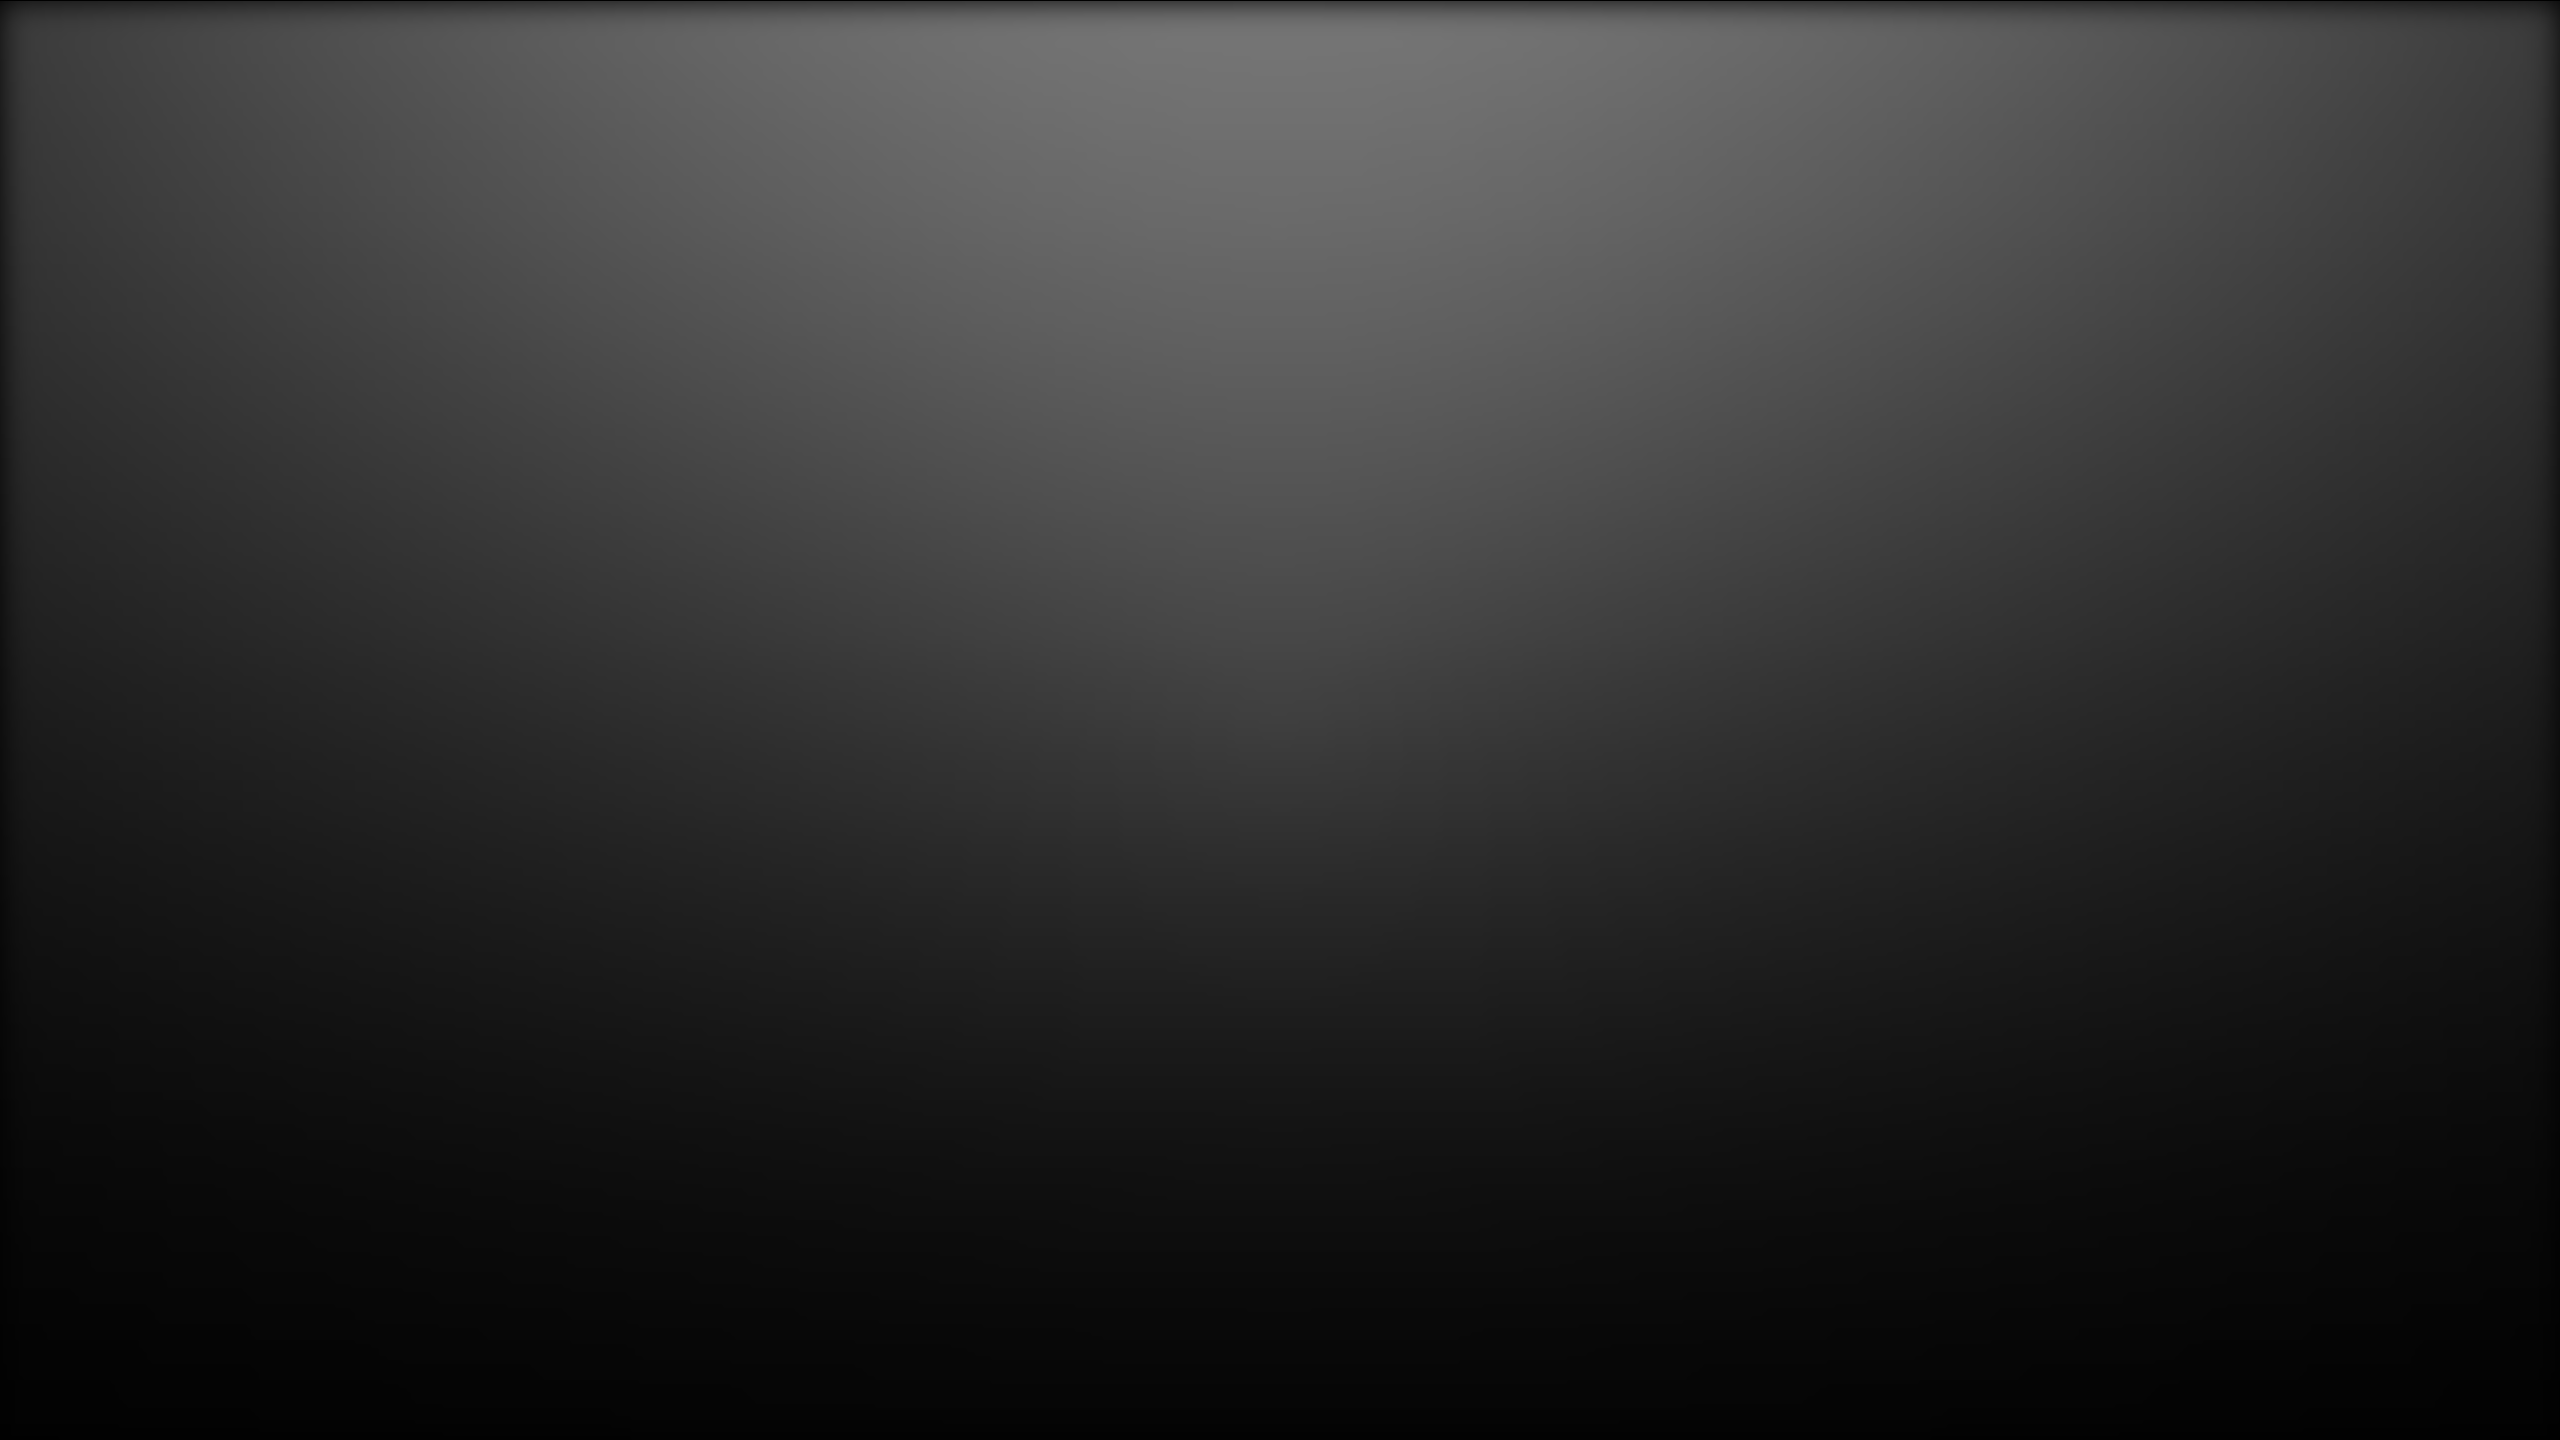
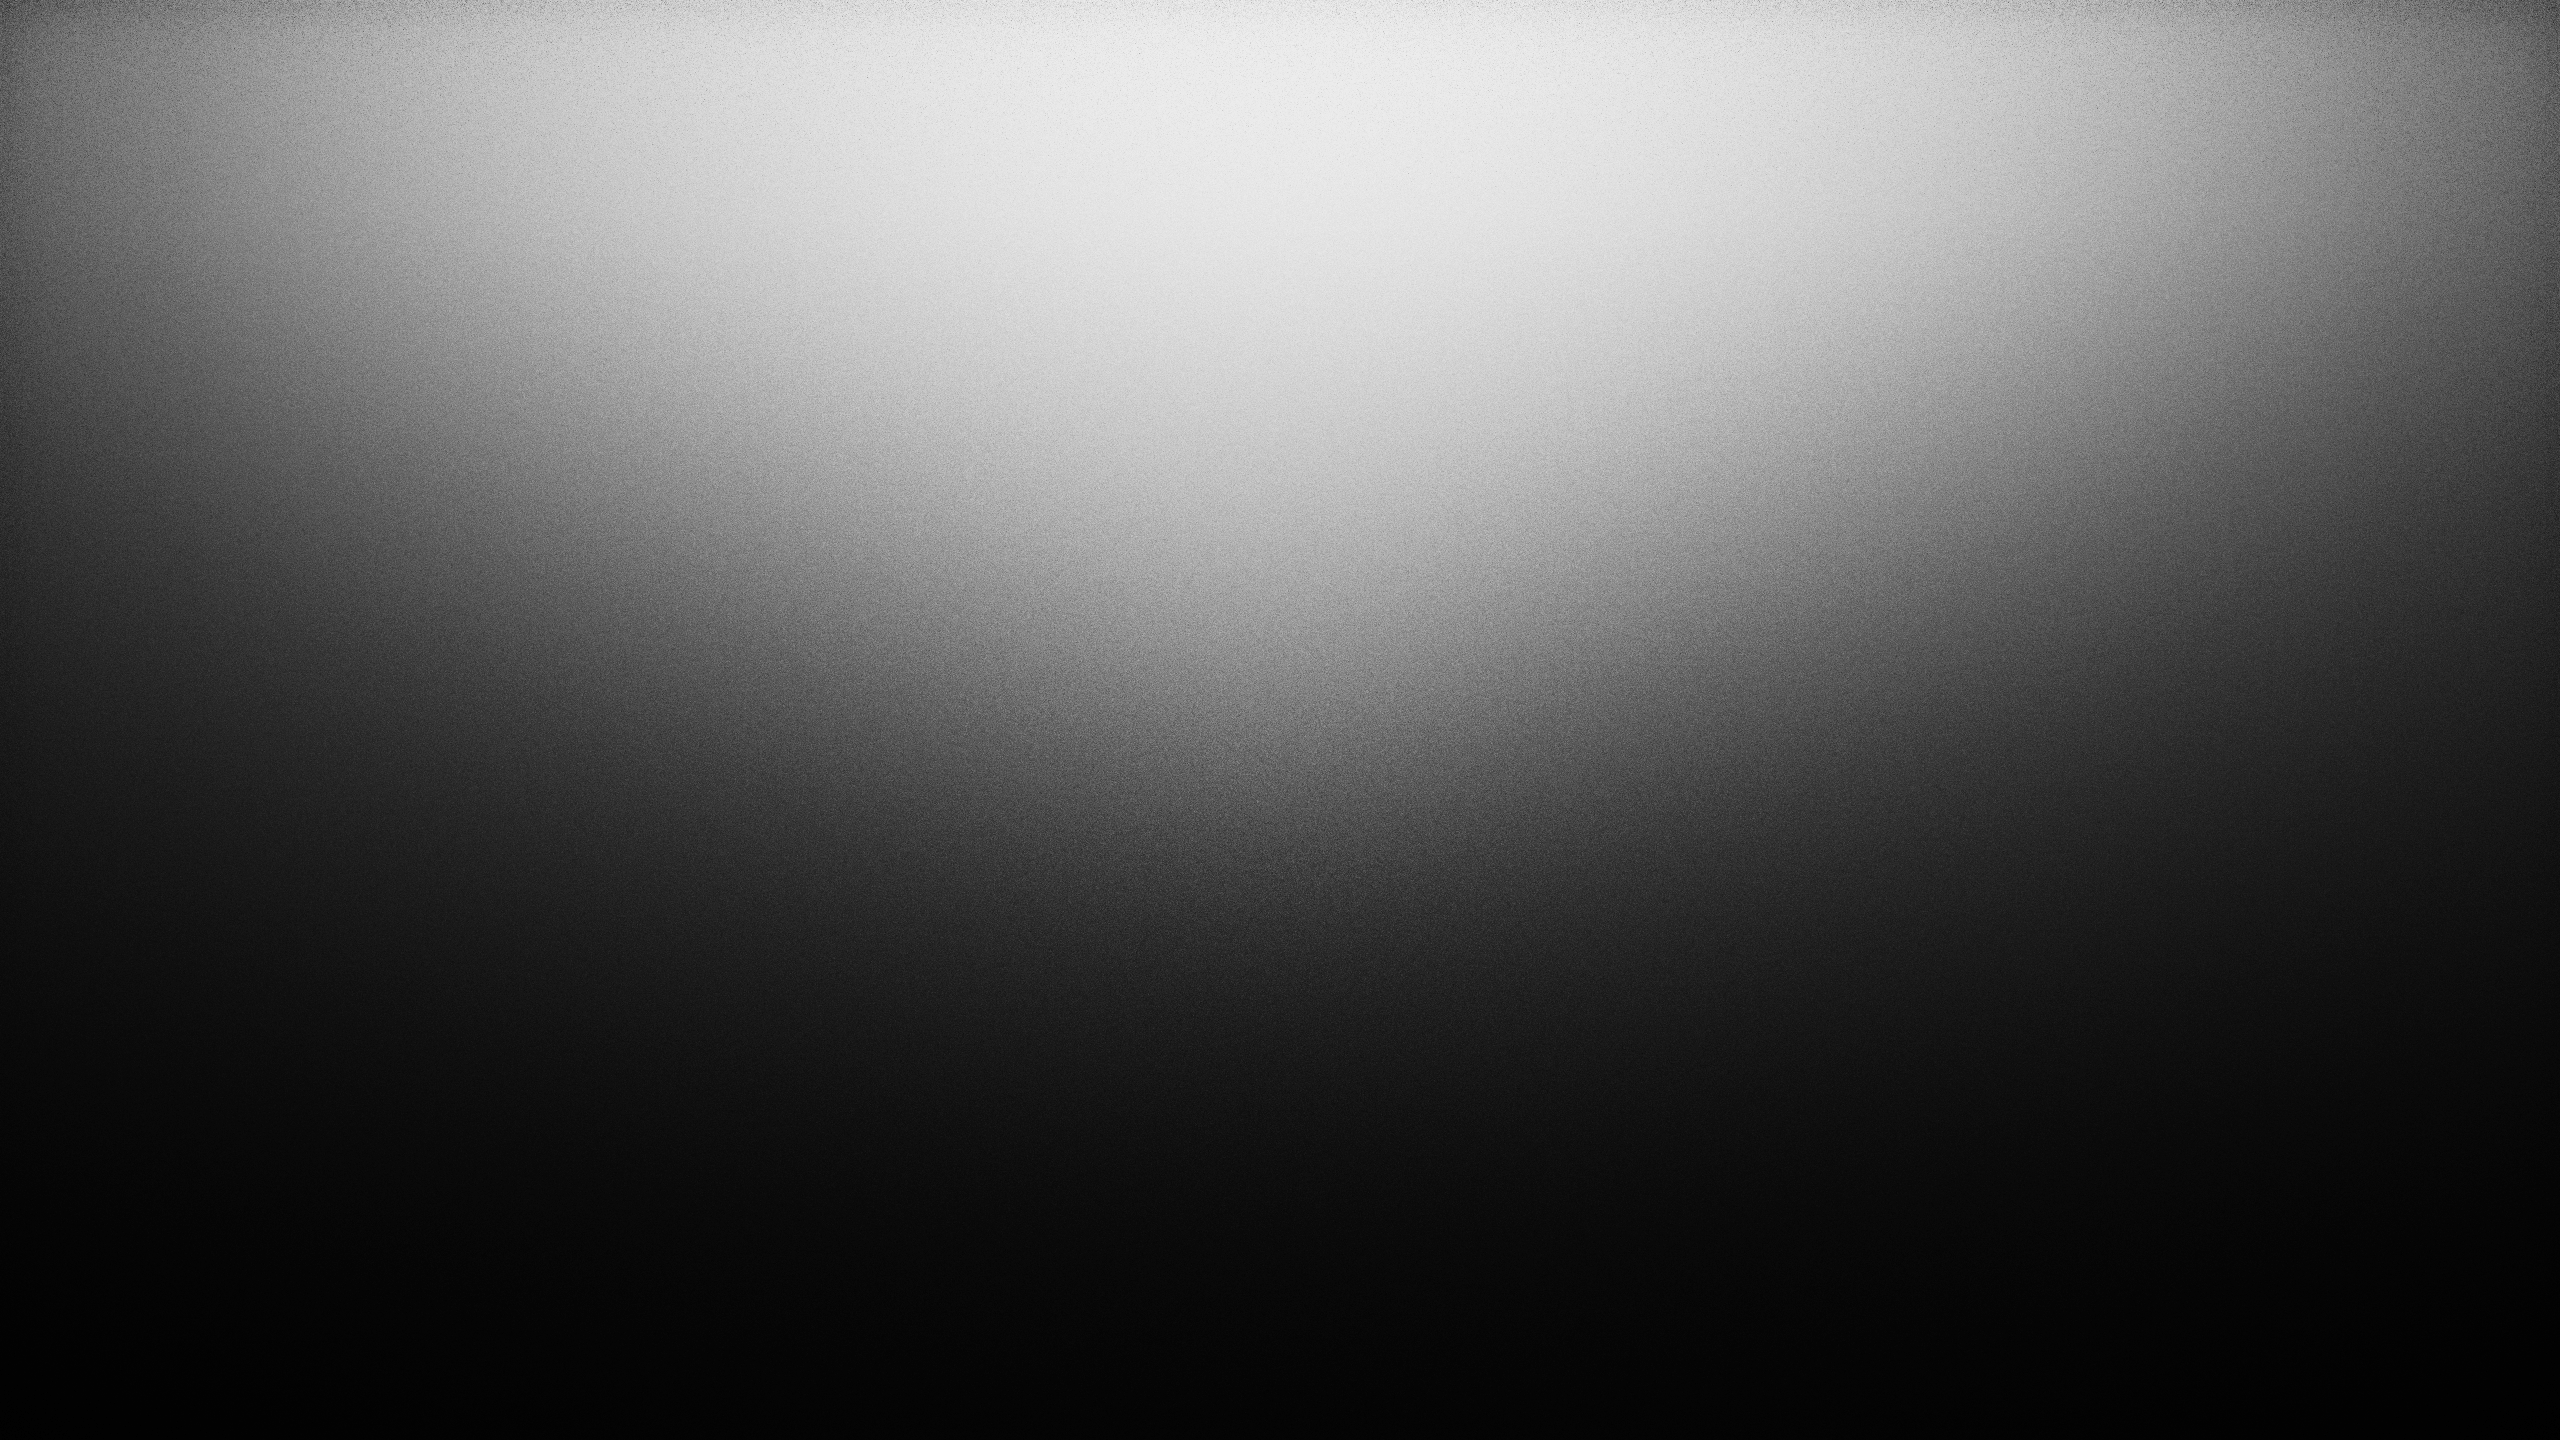
Support for different contexts and heartbeat

diff --git a/src/main/resources/static/playback_flux.js b/src/main/resources/static/playback_flux.js
@@ -3,7 +3,7 @@ var firstRequestDone = false;
 var currentData;
 
 const DEFAULT_IMAGE = 'img/idle.png';
-const DEFAULT_BACKGROUND = 'url(img/gradient_transparent.png)';
+const DEFAULT_BACKGROUND = 'url(img/gradient.png)';
 const PROGRESS_BAR_UPDATE_MS = 250;
 
 window.addEventListener('load', entryPoint);
@@ -26,24 +26,39 @@ function singleRequest() {
       .catch(ex => console.debug(ex));
 }
 
+var flux;
 function startFlux() {
-	const flux = new EventSource("/playbackinfoflux");
-	flux.onmessage = function(event) {
-		let data = event.data;
-		let json = JSON.parse(data);
-		if (this.currentData == null && json.partial) {
+	try {
+		flux = new EventSource("/playbackinfoflux");
+		flux.onopen = () => {
 			singleRequest();
-			return;
-		} else {
-			setDisplayData(json);
-		}
-	};
-	flux.onerror = function(e) {
-    	flux.close();
-    	singleRequest();
-    	startFlux();
-    };
+		};
+		flux.onmessage = (event) => {
+			let data = event.data;
+			try {
+				let json = JSON.parse(data);
+				if (this.currentData == null && json.partial) {
+					singleRequest();
+				} else {
+					setDisplayData(json);
+				}	
+			} catch (ex) {
+				console.debug(ex);
+				console.debug(data);
+			}
+			
+		};
+		flux.onerror = (e) => handleFluxError(e, flux);
+	} catch (e) {
+		handleFluxError(e, flux);
+	}
 }
+
+function handleFluxError(e, flux) {
+	flux.close();
+	singleRequest();
+	startFlux();
+};
 
 var autoTimeEnabled = false;
 
@@ -58,11 +73,14 @@ function startAutoTimer() {
 		}, PROGRESS_BAR_UPDATE_MS);	
 	}
 }
+
 var preloadImg;
 var preloadImgDisplayTimeout;
 function setDisplayData(data) {
-	// console.debug(data);
-    if (data != null) {
+	console.debug(data);
+    if (data == null) {
+    	setIdle();
+    } else {
     	if (data.timeCurrent >= 0) {
     		this.idle = false;
     		if (this.currentData == null || !data.partial) {
@@ -105,10 +123,8 @@ function setDisplayData(data) {
 	            document.getElementById("device").innerHTML = data.device;
 	        }
 	  		updateProgress(data);
-	        return;
         }
     }
-    setIdle();
 }
 
 function updateProgress(data) {

diff --git a/src/main/java/spotify/playback/PlaybackInfoComponent.java b/src/main/java/spotify/playback/PlaybackInfoComponent.java
@@ -5,8 +5,12 @@ import javax.annotation.PostConstruct;
 import org.springframework.beans.factory.annotation.Autowired;
 import org.springframework.stereotype.Component;
 
+import com.wrapper.spotify.enums.CurrentlyPlayingType;
 import com.wrapper.spotify.enums.ModelObjectType;
 import com.wrapper.spotify.model_objects.miscellaneous.CurrentlyPlayingContext;
+import com.wrapper.spotify.model_objects.specification.Album;
+import com.wrapper.spotify.model_objects.specification.Artist;
+import com.wrapper.spotify.model_objects.specification.Context;
 import com.wrapper.spotify.model_objects.specification.Image;
 import com.wrapper.spotify.model_objects.specification.Playlist;
 import com.wrapper.spotify.model_objects.specification.Track;
@@ -24,6 +28,8 @@ import spotify.sketchpads.util.SketchCommons;
 public class PlaybackInfoComponent {
 
 	private final static String PLAYLIST_PREFIX = "https://api.spotify.com/v1/playlists/";
+	private final static String ALBUM_PREFIX = "https://api.spotify.com/v1/albums/";
+	private final static String ARTIST_PREFIX = "https://api.spotify.com/v1/artists/";
 
 	@Autowired
 	private SketchCommons utils;
@@ -88,12 +94,35 @@ public class PlaybackInfoComponent {
 	 */
 
 	private String getPlaylistName(CurrentlyPlayingContext info) {
-		if (info.getContext() != null && ModelObjectType.PLAYLIST.equals(info.getContext().getType()) && !info.getContext().toString().equals(contextString)) {
-			this.contextString = info.getContext().toString();
-			String uri = info.getContext().getHref().replace(PLAYLIST_PREFIX, "");
-			Playlist contextPlaylist = SpotifyCall.execute(utils.getSpotifyApi().getPlaylist(uri));
-			if (contextPlaylist != null) {
-				return contextPlaylist.getName();
+		Context context = info.getContext();
+		if (context != null && info.getCurrentlyPlayingType().equals(CurrentlyPlayingType.TRACK) && !context.toString().equals(contextString) ) {
+			ModelObjectType type = context.getType();
+			switch (type) {
+				case PLAYLIST:
+					this.contextString = context.toString();
+					String playlistId = context.getHref().replace(PLAYLIST_PREFIX, "");
+					Playlist contextPlaylist = SpotifyCall.execute(utils.getSpotifyApi().getPlaylist(playlistId));
+					if (contextPlaylist != null) {
+						return contextPlaylist.getName();
+					}
+					break;
+				case ARTIST:
+					this.contextString = context.toString();
+					String artistId = context.getHref().replace(ARTIST_PREFIX, "");
+					Artist contextArtist = SpotifyCall.execute(utils.getSpotifyApi().getArtist(artistId));
+					if (contextArtist != null) {
+						return contextArtist.getName();
+					}
+					break;
+				case ALBUM:
+					this.contextString = context.toString();
+					String albumId = context.getHref().replace(ALBUM_PREFIX, "");
+					Album contextAlbum = SpotifyCall.execute(utils.getSpotifyApi().getAlbum(albumId));
+					if (contextAlbum != null) {
+						return contextAlbum.getName();
+					}
+					break;
+				default:
 			}
 		}
 		return currentSongPlaybackInfo != null ? currentSongPlaybackInfo.getPlaylist() : "";
@@ -126,7 +155,6 @@ public class PlaybackInfoComponent {
 
 	public static class CurrentPlaybackInfo {
 		public final static CurrentPlaybackInfo EMPTY = new CurrentPlaybackInfo(-1);
-		public final static CurrentPlaybackInfo EMPTY_2 = new CurrentPlaybackInfo(-2);
 
 		private final int timeCurrent;
 

diff --git a/src/main/java/spotify/playback/PlaybackController.java b/src/main/java/spotify/playback/PlaybackController.java
@@ -19,6 +19,7 @@ public class PlaybackController {
 
 	private static final long INTERVAL_MS = 1 * 1000;
 	private static final long TOLERANCE_MS = 2 * 1000;
+	private static final long HEARTBEAT_MS = 25 * 1000;
 
 	@Autowired
 	private PlaybackInfoComponent currentPlaybackInfo;
@@ -36,18 +37,16 @@ public class PlaybackController {
 	public SseEmitter getNewNotification() {
 		SseEmitter emitter = new SseEmitter();
 		emitter.onCompletion(() -> this.emitters.remove(emitter));
-		emitter.onError(e -> {
-			emitter.complete();
-		});
+		emitter.onError(e -> emitter.complete());
 		this.emitters.add(emitter);
 		return emitter;
 	}
 
 	@Scheduled(fixedRate = INTERVAL_MS)
 	private void fetchCurrentPlaybackInfoAndPublish() {
-		if (!emitters.isEmpty()) {
+		if (!this.emitters.isEmpty()) {
 			CurrentPlaybackInfo info = getCurrentPlaybackInfo();
-			if (info != null && !CurrentPlaybackInfo.EMPTY_2.equals(info)) {
+			if (info != null && !CurrentPlaybackInfo.EMPTY.equals(info)) {
 				List<SseEmitter> deadEmitters = new ArrayList<>();
 				this.emitters.forEach(emitter -> {
 					try {
@@ -58,6 +57,21 @@ public class PlaybackController {
 				});
 				this.emitters.removeAll(deadEmitters);
 			}
+		}
+	}
+	
+	@Scheduled(fixedRate = HEARTBEAT_MS)
+	private void sendHeartbeat() {
+		if (!this.emitters.isEmpty()) {
+			List<SseEmitter> deadEmitters = new ArrayList<>();
+			this.emitters.forEach(emitter -> {
+				try {
+					emitter.send(CurrentPlaybackInfo.EMPTY);
+				} catch (Exception e) {
+					deadEmitters.add(emitter);
+				}
+			});
+			this.emitters.removeAll(deadEmitters);
 		}
 	}
 
@@ -73,7 +87,7 @@ public class PlaybackController {
 					return info;
 				}
 			}
-			return CurrentPlaybackInfo.EMPTY_2;
+			return CurrentPlaybackInfo.EMPTY;
 		} finally {
 			this.previousMs = info.getTimeCurrent();
 		}
